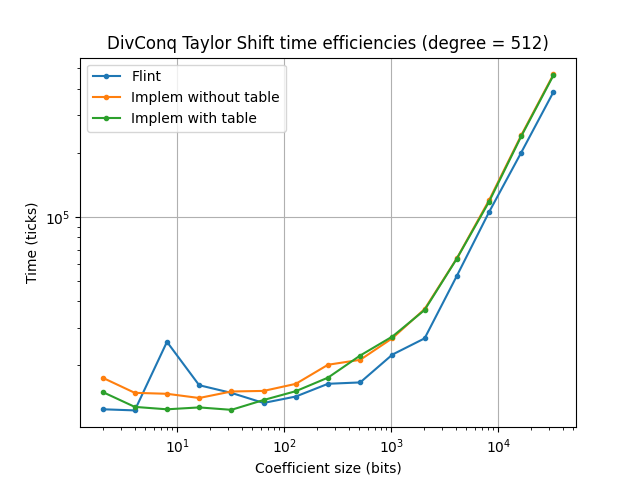
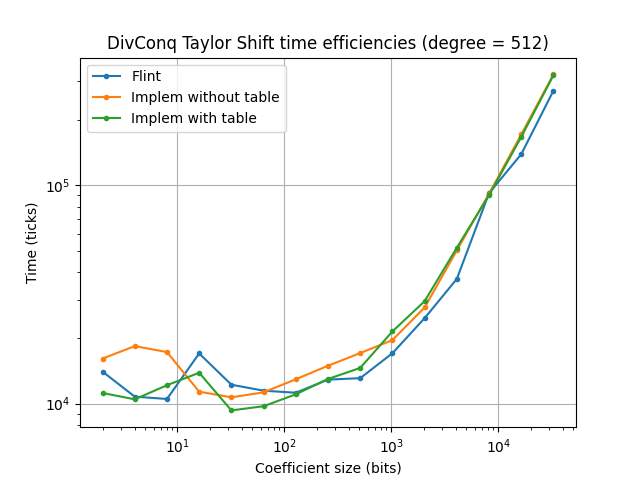
descartes time efficiency tests

diff --git a/src/EfficiencyTests/descartesTest.c b/src/EfficiencyTests/descartesTest.c
@@ -6,32 +6,67 @@
 #include <stdlib.h>
 #include <time.h>
 #include <string.h>
+#include <sys/stat.h>
 #include "../HeaderFiles/functionsForTests.h"
 #include "../HeaderFiles/descartes.h"
 
 char x = 'x';
 
-void testDescartes()
-{
-    fmpz_poly_t polynomials[4];
-    for (int i = 0; i < 4; i++) {
-        fmpz_poly_init(polynomials[i]);
+
+void benchmarkDescartes(int fixedVariable, FILE* fileResults) {
+    fmpz_poly_t poly;
+    fmpz_poly_init(poly);
+
+    clock_t start, end;
+    double* tabTps = malloc(sizeof(double)*(101));  // car il y a 101 polynômes dans DATA
+
+    for(slong i=0; i <= 100; i++) {
+        readPolyDATA(poly, fixedVariable, i, 0);
+
+        start = clock();
+        descartes_rule(poly);
+        end = clock();
+        tabTps[i] = (double)(end - start);
     }
 
-    fmpz_poly_set_str(polynomials[0], "4  2 -3 0 1");  
-    fmpz_poly_set_str(polynomials[1], "3  1 -2 1");    
-    fmpz_poly_set_str(polynomials[2], "3  1 0 -4");    
-    fmpz_poly_set_str(polynomials[3], "3  1 -3 2"); 
+    fprintTab(tabTps, 101, fileResults);
 
-    for (int i = 0; i < 4; i++) {
-        printf("Polynomial: ");
-        fmpz_poly_print(polynomials[i]);
-        printf("\nNumber of sign changes: %ld\n", descartes_rule(polynomials[i]));
-        fmpz_poly_clear(polynomials[i]);
-    }
+    fmpz_poly_clear(poly);
+    free(tabTps);
 }
 
+
+
 int main()
-{
-    testDescartes();
+{   
+    mkdir("EfficiencyTests/Results/descartesTest", 0777);
+    FILE* fileResults;
+
+    fileResults = fopen("EfficiencyTests/Results/descartesTest/descartesChangingDegree.txt", "w");
+    if (fileResults == NULL) {
+        printf("The file is not opened. The program will "
+            "now exit.\n");
+        exit(0);
+    }
+    fprintf(fileResults, "Sign changes time efficiency (coeffSize=500)\n");    //Title of the plot
+    fprintf(fileResults, "Implementation\n");    //labels of the plot
+    benchmarkDescartes(0, fileResults);  //datas
+    fclose(fileResults);
+
+
+    fileResults = fopen("EfficiencyTests/Results/descartesTest/descartesChangingCoeffSize.txt", "w");
+    if (fileResults == NULL) {
+        printf("The file is not opened. The program will "
+            "now exit.\n");
+        exit(0);
+    }
+    fprintf(fileResults, "Sign changes time efficiency (degree=500)\n");    //Title of the plot
+    fprintf(fileResults, "Implementation\n");    //labels of the plot
+    benchmarkDescartes(1, fileResults);  //datas
+    fclose(fileResults);
+
+    system("python3 EfficiencyTests/plotGenerator.py EfficiencyTests/Results/descartesTest/descartesChangingDegree.txt 'time' 0 'lin'");
+    system("python3 EfficiencyTests/plotGenerator.py EfficiencyTests/Results/descartesTest/descartesChangingCoeffSize.txt 'time' 1 'lin'");
+
+    return 0;
 }

diff --git a/src/Implementations/taylorShiftImplem.c b/src/Implementations/taylorShiftImplem.c
@@ -2,6 +2,8 @@
 #include <flint/fmpz_poly.h>
 #include <flint/fmpz.h>
 #include <flint/fmpq.h>
+#include <flint/fmpz_vec.h>
+#include <flint/ulong_extras.h>
 #include <stdio.h>
 #include <time.h>
 #include <math.h>
@@ -197,7 +199,7 @@ void load_precomputed_polynomials(slong max_m) {
     }
 }
 
-void poly_shift_plus_one_Precomputed2(fmpz_poly_t g, const fmpz_poly_t poly, slong cut, slong current_m) {
+void poly_shift_plus_one_Precomputed2(fmpz_poly_t g, const fmpz_poly_t poly, slong cut) {
     if (poly->length < cut) {
         fmpz_t shift;
         fmpz_init(shift);
@@ -207,28 +209,21 @@ void poly_shift_plus_one_Precomputed2(fmpz_poly_t g, const fmpz_poly_t poly, slo
         return;
     }
 
-    if (current_m == 0) {
+    slong len = fmpz_poly_length(poly);
+    fmpz_t len_fmpz;
+    fmpz_init_set_si(len_fmpz,len);
+    slong m=fmpz_clog_ui(len_fmpz,2);
+    if (m == 0) {
         fmpz_poly_set(g, poly);
         return;
     }
 
-    slong half = 1 << (current_m - 1);
-    fmpz_poly_t f0, f1;
-    fmpz_poly_init(f0);
-    fmpz_poly_init(f1);
-
-    fmpz_poly_set_trunc(f0, poly, half);
-    fmpz_poly_shift_right(f1, poly, half);
-    fmpz_poly_set_trunc(f1, f1, half);
-
-    poly_shift_plus_one_Precomputed2(f0, f0, cut, current_m - 1);
-    poly_shift_plus_one_Precomputed2(f1, f1, cut, current_m - 1);
-
-    fmpz_poly_mul(f1, global_precomputed[current_m - 1], f1);
-    fmpz_poly_add(g, f0, f1);
-
-    fmpz_poly_clear(f0);
-    fmpz_poly_clear(f1);
+    fmpz_t shift;
+    fmpz_init_set_si(shift, 1);
+    divide_conquer_plus_one(g, poly, global_precomputed, m, shift, cut);
+    
+    fmpz_clear(len_fmpz);
+    fmpz_clear(shift);
 }
 
 

diff --git a/src/EfficiencyTests/TS_DivConq_Tests.c b/src/EfficiencyTests/TS_DivConq_Tests.c
@@ -53,6 +53,7 @@ void benchmark_DivConq_Flint(fmpz_t shift, slong maxPow, int fixedVariable, FILE
     for(slong i=0; i<maxPow; i++) {
         readPolyDATA(poly, fixedVariable, i+1, 1);
 
+        flint_set_num_threads(1);
         clock_t begin = clock();
         fmpz_poly_taylor_shift_divconquer(result, poly, shift);
         clock_t end = clock();
@@ -102,12 +103,8 @@ void benchmark_DivConq_Implem_Table(slong maxPow, int fixedVariable, FILE* fileR
     for(slong i=0; i<maxPow; i++) {
         readPolyDATA(poly, fixedVariable, i+1, 1);
         
-        slong len = fmpz_poly_length(poly);
-        fmpz_t len_fmpz;
-        fmpz_init_set_si(len_fmpz,len);
-        slong m=fmpz_clog_ui(len_fmpz,2);
         clock_t begin = clock();
-        poly_shift_plus_one_Precomputed2(result, poly, 129, m);
+        poly_shift_plus_one_Precomputed2(result, poly, 129);
         clock_t end = clock();
         tabTps[i] = (double)(end - begin);// / CLOCKS_PER_SEC;
 
@@ -125,8 +122,7 @@ int main(int argc, char* argv[])
 {
     slong maxPow = 15;
     fmpz_t shift;
-    fmpz_init(shift);
-    fmpz_set_si(shift, 1);
+    fmpz_init_set_si(shift, 1);
 
     load_precomputed_polynomials(15);
 

diff --git a/src/ValidityTests/descartesValidity.c b/src/ValidityTests/descartesValidity.c
@@ -1,0 +1,37 @@
+#include <flint/flint.h>
+#include <flint/fmpz_poly.h>
+#include <flint/fmpz.h>
+#include <flint/fmpq.h>
+#include <stdio.h>
+#include <stdlib.h>
+#include <time.h>
+#include <string.h>
+#include "../HeaderFiles/functionsForTests.h"
+#include "../HeaderFiles/descartes.h"
+
+char x = 'x';
+
+void testDescartes()
+{
+    fmpz_poly_t polynomials[4];
+    for (int i = 0; i < 4; i++) {
+        fmpz_poly_init(polynomials[i]);
+    }
+
+    fmpz_poly_set_str(polynomials[0], "4  2 -3 0 1");  
+    fmpz_poly_set_str(polynomials[1], "3  1 -2 1");    
+    fmpz_poly_set_str(polynomials[2], "3  1 0 -4");    
+    fmpz_poly_set_str(polynomials[3], "3  1 -3 2"); 
+
+    for (int i = 0; i < 4; i++) {
+        printf("Polynomial: ");
+        fmpz_poly_print(polynomials[i]);
+        printf("\nNumber of sign changes: %ld\n", descartes_rule(polynomials[i]));
+        fmpz_poly_clear(polynomials[i]);
+    }
+}
+
+int main()
+{
+    testDescartes();
+}

diff --git a/src/HeaderFiles/taylorShift_implem.h b/src/HeaderFiles/taylorShift_implem.h
@@ -15,7 +15,7 @@ void divide_conquer_plus_one(fmpz_poly_t g, const fmpz_poly_t f, fmpz_poly_t *pr
 void poly_shift_plus_one(fmpz_poly_t g, fmpz_poly_t poly, fmpz_t a,slong cut);
 void poly_shift_plus_one_Precomputed(fmpz_poly_t g, fmpz_poly_t poly, slong cut);
 void load_precomputed_polynomials(slong max_m);
-void poly_shift_plus_one_Precomputed2(fmpz_poly_t g, const fmpz_poly_t poly, slong cut, slong current_m);
+void poly_shift_plus_one_Precomputed2(fmpz_poly_t g, const fmpz_poly_t poly, slong cut);
 void naiveShift(fmpz_poly_t result, fmpz_poly_t poly, fmpz_t a);
 
 #endif

diff --git a/src/ValidityTests/taylorShiftValidity.c b/src/ValidityTests/taylorShiftValidity.c
@@ -35,11 +35,7 @@ int main()
         printf("Implem of divide and conquer is incorrect :(\n");
 
     
-    slong len = fmpz_poly_length(poly);
-    fmpz_t len_fmpz;
-    fmpz_init_set_si(len_fmpz,len);
-    slong m=fmpz_clog_ui(len_fmpz,2);
-    poly_shift_plus_one_Precomputed2(result, poly, 65, m);
+    poly_shift_plus_one_Precomputed2(result, poly, 65);
     if(fmpz_poly_equal(result, TrueResult))
         printf("Implem of DivConq with precomputation table is valid :)\n");
     else
